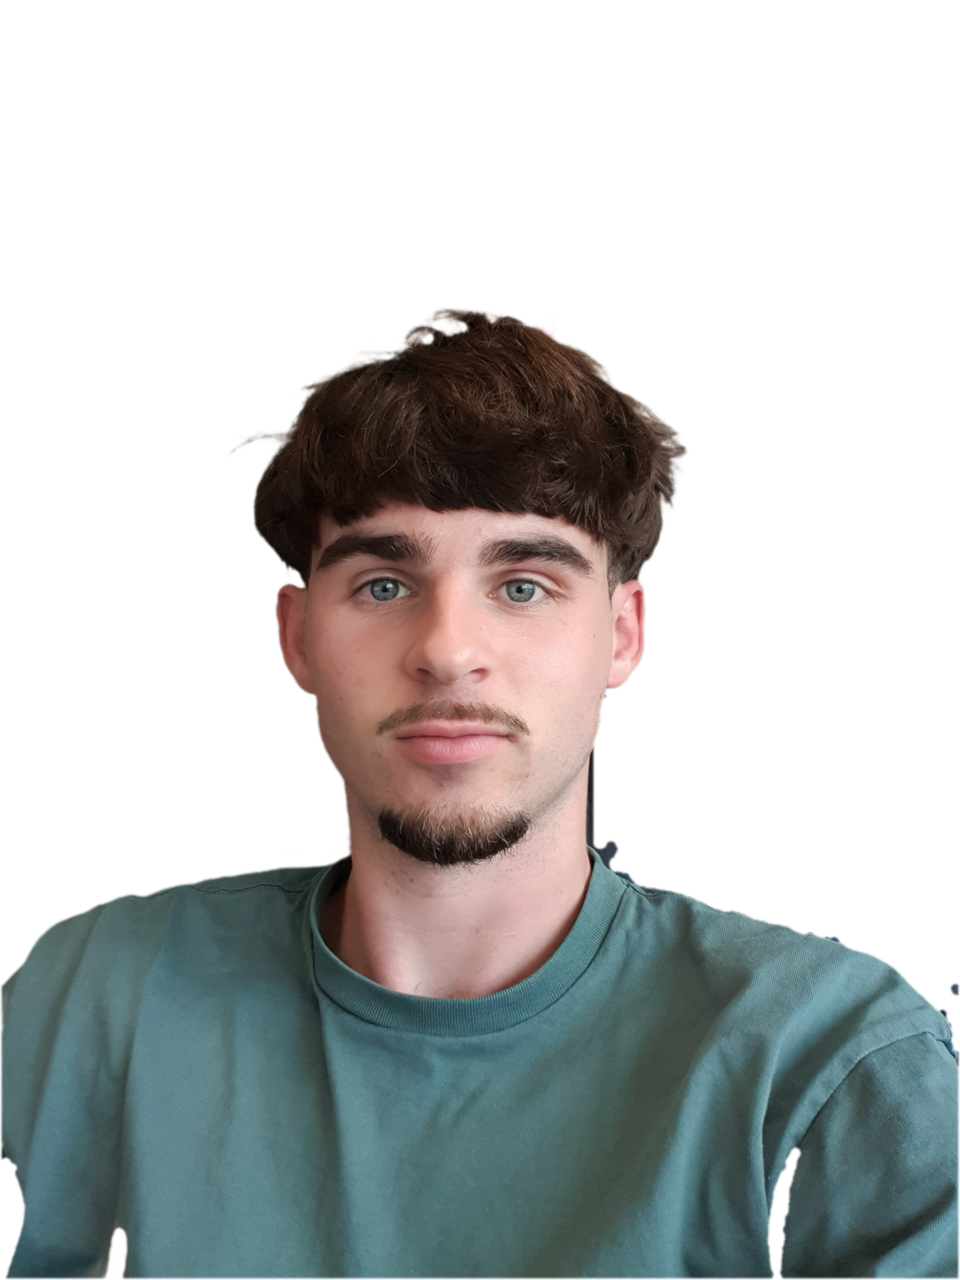
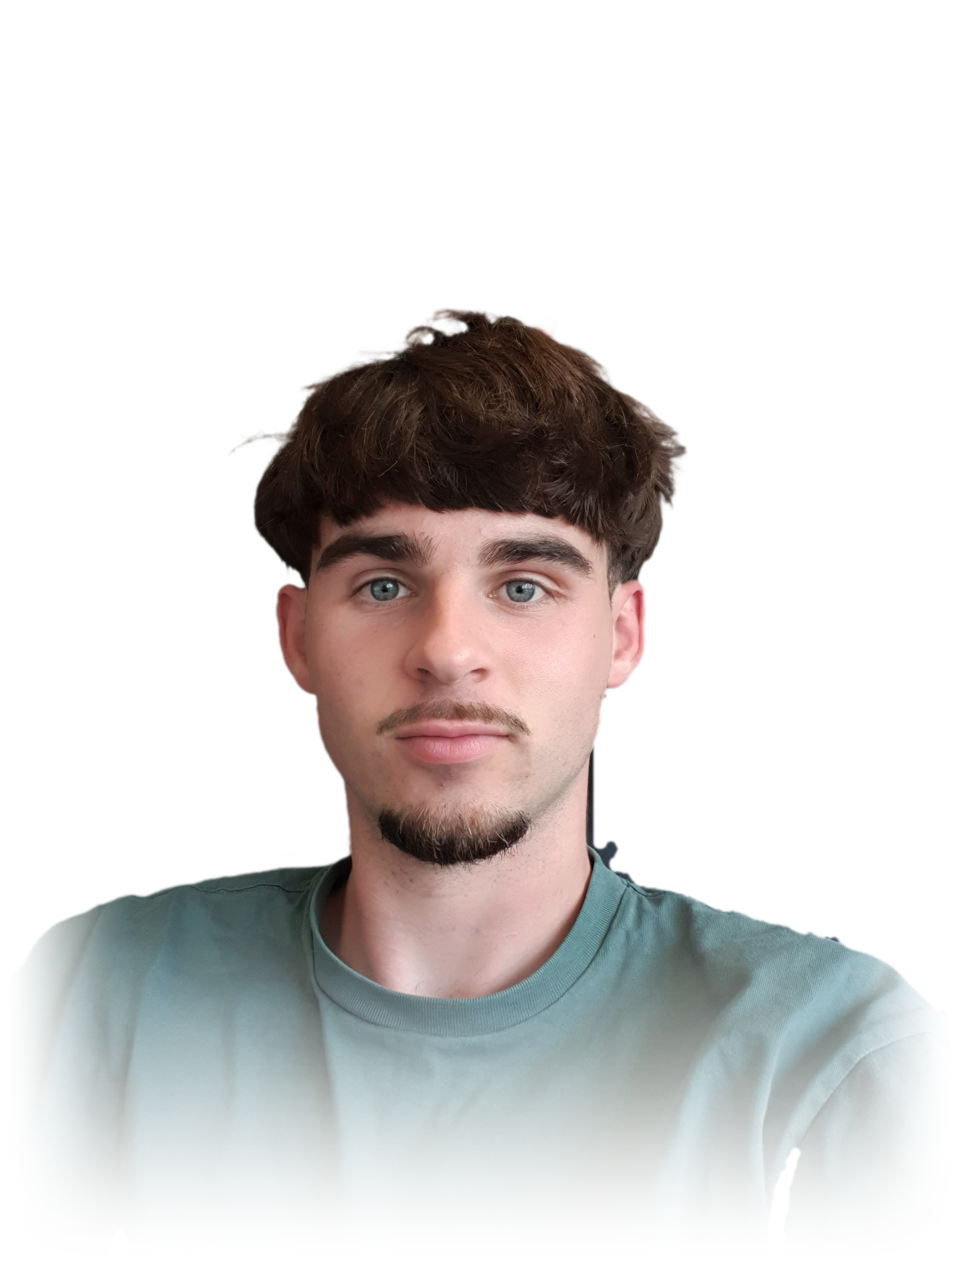
renommage d'un projet + style de ma photo

Changed region(s): [[0.0, 0.6875, 1.0, 1.0]]

diff --git a/js/projects.js b/js/projects.js
@@ -31,8 +31,8 @@ const PROJECTS = [
         image: "images/ia.avif",
         title: { fr: "IA Puissance 4", en: "Connect Four AI" },
         description: {
-            fr: "Intelligence artificielle qui joue au Puissance 4 grâce à l'algorithme minimax avec élagage alpha-bêta.",
-            en: "Artificial intelligence playing Connect Four using the minimax algorithm with alpha-beta pruning."
+            fr: "Bot codé en binôme pour affronter un joueur au Puissance 4 : il choisit son coup selon des règles que nous avons définies pour chaque situation de jeu.",
+            en: "Bot coded in a pair to play Connect Four against a human: it picks its move based on rules we defined for each game situation."
         },
         tags: ["C", "Algorithmique"],
         context: "iut", team: true, year: 2023,
